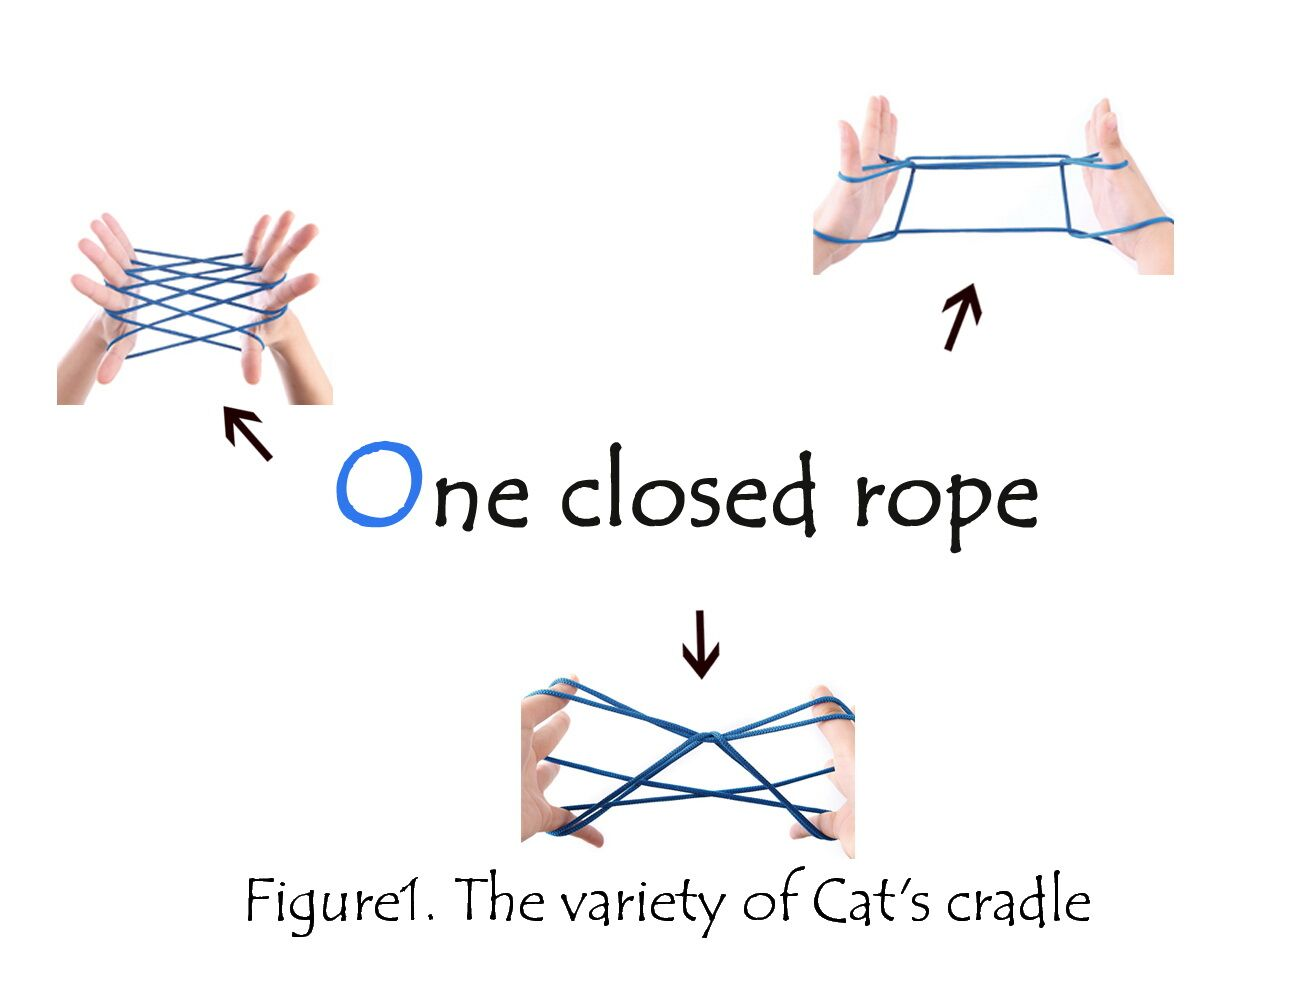
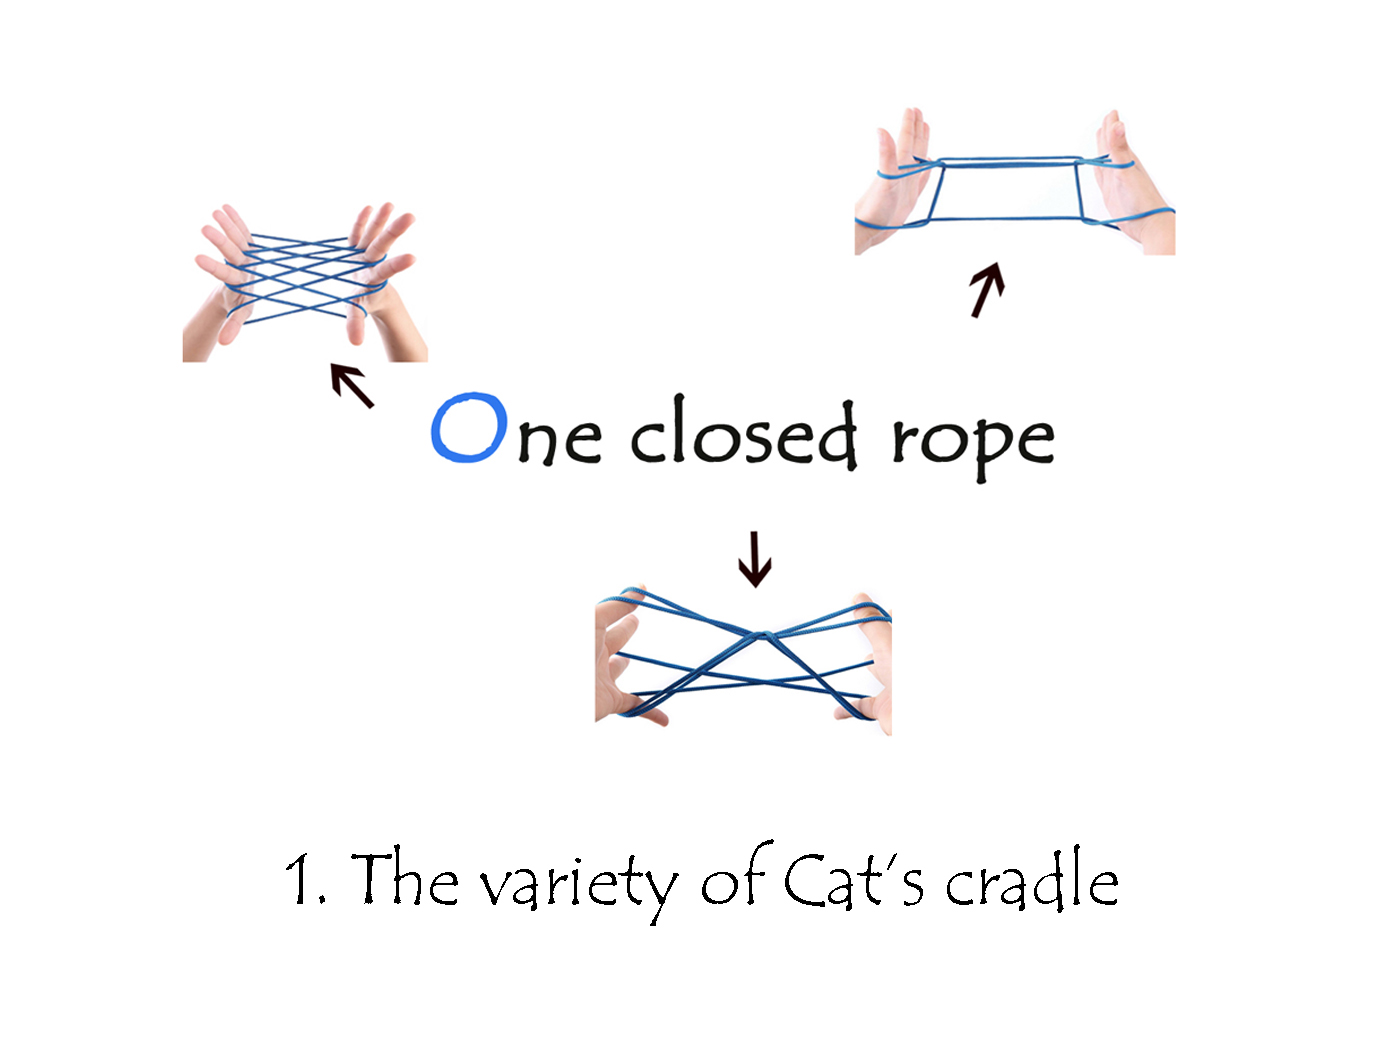
fix background

diff --git a/ouc/2016/Results/index.html b/ouc/2016/Results/index.html
@@ -240,7 +240,7 @@ div.desc
 <br><br>
 <p>Figure 1 a is the Native PAGE pattern of Z-B chimera and figure 1 b is the denaturing PAGE pattern. The samples were loaded in the same volume on the 8% Native gels and denaturing gels for characterization of Z-DNA and B-DNA. After optimizing the reaction methods (please read in the “Discussion”), the formation of Z-B DNA chimera was obtained when two complementary circular DNA were added simultaneously (shown in Materials and Methods). 
 </p>
-<p>We can found that the circular DNAs have formed in lane 3 and lane 4 and Z-B chimera has also formed in lane 5 when we mixed the product in lane 3 and lane 4 in the same proportion under the condition of 10mM MgCl2 in the gel and 1mM MgCl2 in the 1×TBE buffer, that means, even 42nt can form the Z-B DNA chimera. We originally assumed that no other byproduct could be seen if pairing efficiency was high enough. However, as shown in Figure 1a, in the lane 6 and lane 7, there was another band respectively, the mobility of which was slower than the band of circular DNA and it’s complementary linear DNA, we think the structure of the product is as figure 1 c.
+<p>We can found that the circular DNAs have formed in lane 3 and lane 4 and Z-B chimera has also formed in lane 5 when we mixed the product in lane 3 and lane 4 in the same proportion under the condition of 10mM MgCl<sub>2</sub> in the gel and 1mM MgCl<sub>2</sub> in the 1×TBE buffer, that means, even 42nt can form the Z-B DNA chimera. We originally assumed that no other byproduct could be seen if pairing efficiency was high enough. However, as shown in Figure 1a, in the lane 6 and lane 7, there was another band respectively, the mobility of which was slower than the band of circular DNA and it’s complementary linear DNA, we think the structure of the product is as figure 1 c.
 </p>
 <p>However, when we used denaturing PAGE gel (Figure 1 b), the double strand circle DNA was not observed, indicating that the double strand circle DNA dissociated to ssDNA cicular DNAs under 8M urea as the denaturing agent (lane 5). The similar phenomenon was observed for lane 6,7,8.
 </p>
@@ -255,7 +255,7 @@ Figure 2．Native PAGE (a) and denaturing PAGE (b) patterns of 74nt (lane 1) lin
 </div>
 <br><br>
 
-<p>The result of another length was as shown in figure 2. Figure 2 a is the Native PAGE pattern of Z-B chimera and figure 2 b is the denaturing PAGE pattern. The condition of the gel was not same as 42nt, we did not add MgCl2 either in the gel or in the 1×TBE buffer, we just add ice to keep the temperature under 20℃and samples were loaded in the same volume on the 8% Native gels and denaturing gels for characterization of Z-DNA and B-DNA. The result of gel illustration of 72nt samples were similar as 42nt in figure 1. The formation of Z-B DNA chimera was also obtained. The difference between them was as follow: the samples in lane 7 and lane 9 were duplex by single strand DNA with it’s complementary linear DNA and ligated by T4 DNA ligase to form a closed ds-DNA circle, we can find that they have the similar mobility with ds-cirDNA on native PAGE gel, and the mobility still remained low even under denaturing conditions, indicating that the closed circles can not dissociate to free circles. This experience further evident that the Z-B DNA chimera was formed by base pairing of single strand circle DNA and it’s complementary ss-cirDNA. The reason why we did not load the sample of 42nt as lane 7 and lane 9 of 72nt is that, limited to the diameter of the ring after circling of ssDNA and the of ssDNA itself, they will not form the structure we expect as figure 2 c when ss-cirDNA combined with it’s complementary ssDNA, instead, they may form the structure as figure 2 d and the closed circles as the samples of lane 7 and lane 9 of 72nt will not form.
+<p>The result of another length was as shown in figure 2. Figure 2 a is the Native PAGE pattern of Z-B chimera and figure 2 b is the denaturing PAGE pattern. The condition of the gel was not same as 42nt, we did not add MgCl<sub>2</sub> either in the gel or in the 1×TBE buffer, we just add ice to keep the temperature under 20℃and samples were loaded in the same volume on the 8% Native gels and denaturing gels for characterization of Z-DNA and B-DNA. The result of gel illustration of 72nt samples were similar as 42nt in figure 1. The formation of Z-B DNA chimera was also obtained. The difference between them was as follow: the samples in lane 7 and lane 9 were duplex by single strand DNA with it’s complementary linear DNA and ligated by T4 DNA ligase to form a closed ds-DNA circle, we can find that they have the similar mobility with ds-cirDNA on native PAGE gel, and the mobility still remained low even under denaturing conditions, indicating that the closed circles can not dissociate to free circles. This experience further evident that the Z-B DNA chimera was formed by base pairing of single strand circle DNA and it’s complementary ss-cirDNA. The reason why we did not load the sample of 42nt as lane 7 and lane 9 of 72nt is that, limited to the diameter of the ring after circling of ssDNA and the of ssDNA itself, they will not form the structure we expect as figure 2 c when ss-cirDNA combined with it’s complementary ssDNA, instead, they may form the structure as figure 2 d and the closed circles as the samples of lane 7 and lane 9 of 72nt will not form.
 </p>
 
 <p>The experiment results of other lengths were similar as 42nt and 74nt (data not shown).</p>
@@ -275,7 +275,7 @@ Figure 3．Native PAGE patterns of 74nt (lane 1) linear &alpha;, (lane 2) linear
 <br><br>
 
 
- <p>The conditions of electrophoresis are the same as those when we proved to form the Z-B DNA chimera. We can find that the mobility of the Z-B chimera band with protein ZBP-1 in lane 6 was much slower than the Z-B chimera band in lane 5, and the whole band in lane 6 was stagnated in the loading tank which was circled in lane 6, and the mobility of the duplex band with protein ZBP-1 in lane 10 was the same as the duplex band in lane 9, indicating that the Z-B chimera has combined with the ZBP-1 and the BDNA duplex has not combined with the protein, so we can get the conclusion that we had obtained Z-B chimera. However, part of the band of circle &beta; with it’s complementary linear &alpha; added 12μΜ protein ZBP-1 in lane 8 was also stagnated in the loading tank which was circled in lane 8 and part of the band moved synchronously with the circle BDNA band in lane 7, so we guessed that because the sequence we designed consists of APP sequence and when ZBP-1 combined with the sequence, part of the circle BDNA may be changed the structure into ZDNA, which leaded to the result as if ZBP-1 also combined with BDNA.
+ <p>The conditions of electrophoresis are the same as those when we proved to form the Z-B DNA chimera. We can find that the mobility of the Z-B chimera band with protein ZBP-1 in lane 6 was much slower than the Z-B chimera band in lane 5, and the whole band in lane 6 was stagnated in the loading tank which was circled in lane 6, and the mobility of the duplex band with protein ZBP-1 in lane 10 was the same as the duplex band in lane 9, indicating that the Z-B chimera has combined with the ZBP-1 and the B DNA duplex has not combined with the protein, so we can get the conclusion that we had obtained Z-B chimera. However, part of the band of circle &beta; with it’s complementary linear &alpha; added 12μΜ protein ZBP-1 in lane 8 was also stagnated in the loading tank which was circled in lane 8 and part of the band moved synchronously with the circle B DNA band in lane 7, so we guessed that because the sequence we designed consists of APP sequence and when ZBP-1 combined with the sequence, part of the circle B DNA may be changed the structure into Z DNA, which leaded to the result as if ZBP-1 also combined with B DNA.
  </p>
 
  <h2>2.	The transcription of Z-B DNA chimera</h2>
@@ -309,7 +309,7 @@ Figure 5．Native PAGE patterns of transcription of 92nt duplex, ss-cirDNA and 9
 <p>We didn’t finish this part of experiments, but we are still exploring the method to form Z-B RNA chimera and we believed that we will make it on the base of formation of Z-B DNA chimera. </p>
 <div name="Discussion" id="Discussion"><h1>Discussion</h1></div>
 <h2>1.	Changing the experiment condition when using native gels to prove the formation of Z-B DNA chimera.</h2>
-<p>At the beginning of the 42nt experiment, we just use traditional 8% native gel. However, we found that the efficiency of forming Z-B DNA chimera was very low (figure 6), in figure 6 a lane 5, except the band of Z-B DNA chimera, there were still circle &alpha; and circle &beta; band left. According to the research that Z-DNA is easy to form under the condition of high concentration of positive ion and considering that heat will be released when the gels running and the structure of Z-B DNA chimera may be destroyed, we added MgCl2 to the native gel and 1×TBE buffer, then added ice to electrophoresis tank to reduce the temperature. Finally, the efficiency of forming Z-B DNA chimera improved a lot and there was only one band of Z-B DNA chimera in figure 6b lane 5.</p>
+<p>At the beginning of the 42nt experiment, we just use traditional 8% native gel. However, we found that the efficiency of forming Z-B DNA chimera was very low (figure 6), in figure 6 a lane 5, except the band of Z-B DNA chimera, there were still circle &alpha; and circle &beta; band left. According to the research that Z-DNA is easy to form under the condition of high concentration of positive ion and considering that heat will be released when the gels running and the structure of Z-B DNA chimera may be destroyed, we added MgCl<sub>2</sub> to the native gel and 1×TBE buffer, then added ice to electrophoresis tank to reduce the temperature. Finally, the efficiency of forming Z-B DNA chimera improved a lot and there was only one band of Z-B DNA chimera in figure 6b lane 5.</p>
 
 <div class="img">
   <a target="_blank" href="figure6.jpg">

diff --git a/ouc/2016/Background/index.html b/ouc/2016/Background/index.html
@@ -226,7 +226,7 @@ div.img desc
 <h1>1.	What is Z-DNA?</h1>
 <p>Z-DNA is one of the many possible double helical structures of DNA. It is a left-handed double helical structure in which the double helix winds to the left in a zig-zag pattern (instead of to the right, like the more common B-DNA form). Z-DNA is thought to be one of three biologically active double helical structures along with A- and B-DNA.</p>
 <h2>Structure</h2>
-<p>Z-DNA is quite different from the right-handed forms. In fact, Z-DNA is often compared against B-DNA in order to illustrate the major differences. The Z-DNA helix is left-handed and has a structure that repeats every 2 base pairs .(Fig.1) The major and minor grooves, unlike A- and B-DNA, show little difference in width. Formation of this structure is generally unfavorable, although certain conditions can promote it; such as alternating purine-pyrimidine sequence (especially poly(dGC)2), negative DNA supercoiling or high salt and some cations (all at physiological temperature, 37 °C, and pH 7.3-7.4). Z-DNA can form a junction with B-DNA (called a "B-to-Z junction box") (Fig.2) in a structure which involves the extrusion of a base pair.<sup>[3]</sup> The Z-DNA conformation has been difficult to study because it does not exist as a stable feature of the double helix. Instead, it is a transient structure that is occasionally induced by biological activity and then quickly disappears.<sup>[4]</sup><p>
+<p>Z-DNA is quite different from the right-handed forms. In fact, Z-DNA is often compared against B-DNA in order to illustrate the major differences. The Z-DNA helix is left-handed and has a structure that repeats every 2 base pairs .(Fig.1) The major and minor grooves, unlike A- and B-DNA, show little difference in width. Formation of this structure is generally unfavorable, although certain conditions can promote it; such as alternating purine-pyrimidine sequence (especially poly(dG-dC)2), negative DNA supercoiling or high salt and some cations (all at physiological temperature, 37 °C, and pH 7.3-7.4). Z-DNA can form a junction with B-DNA (called a "B-to-Z junction box") (Fig.2) in a structure which involves the extrusion of a base pair.<sup>[3]</sup> The Z-DNA conformation has been difficult to study because it does not exist as a stable feature of the double helix. Instead, it is a transient structure that is occasionally induced by biological activity and then quickly disappears.<sup>[4]</sup><p>
 
 <br><br>
 <div class="img">
@@ -257,7 +257,7 @@ div.img desc
 
 
 <h1>2.	Biological significance of Z-DNA</h1>
-<p>Though Z-DNA was firstly discovered in vitro, recently many evidences revealed that Z-DNA existed and may possessed diversity of functions in vivo including gene expression and regulation, chromosomal breaks, recombination, antivirus defense and virus generations and so on.</p>
+<p>Though Z-DNA was firstly discovered <i>in vitro</i>, recently many evidences revealed that Z-DNA existed and may possessed diversity of functions <i>in vivo</i> including gene expression and regulation, chromosomal breaks, recombination, antivirus defense and virus generations and so on.</p>
 <p>Z-DNA is commonly believed to provide torsional strain relief (supercoiling) while DNA transcription occurs.<sup>[7]</sup> The potential to form a Z-DNA structure also correlates with regions of active transcription. A comparison of regions with a high sequence-dependent, predicted propensity to form Z-DNA in human chromosome 22 with a selected set of known gene transcription sites suggests there is a correlation.<sup>[8]</sup>
 </p>
 

diff --git a/ouc/2016/index.html b/ouc/2016/index.html
@@ -223,7 +223,7 @@
 			<img src="figure1.jpg" alt="First slide" width="700px" height="400px">
 		</div>
 		<div class="item">
-			<img src="figure2.png" alt="Second slide" width="700px" height="400px">
+			<img src="figure2.jpg" alt="Second slide" width="700px" height="400px">
 		</div>
 
 		<div class="item">
@@ -231,7 +231,7 @@
 		</div>
 
 		<div class="item">
-			<img src="figure4.png" alt="Fourth slide" width="700px" height="400px">
+			<img src="figure4.jpg" alt="Fourth slide" width="700px" height="400px">
 		</div>
 
 		<div class="item">
